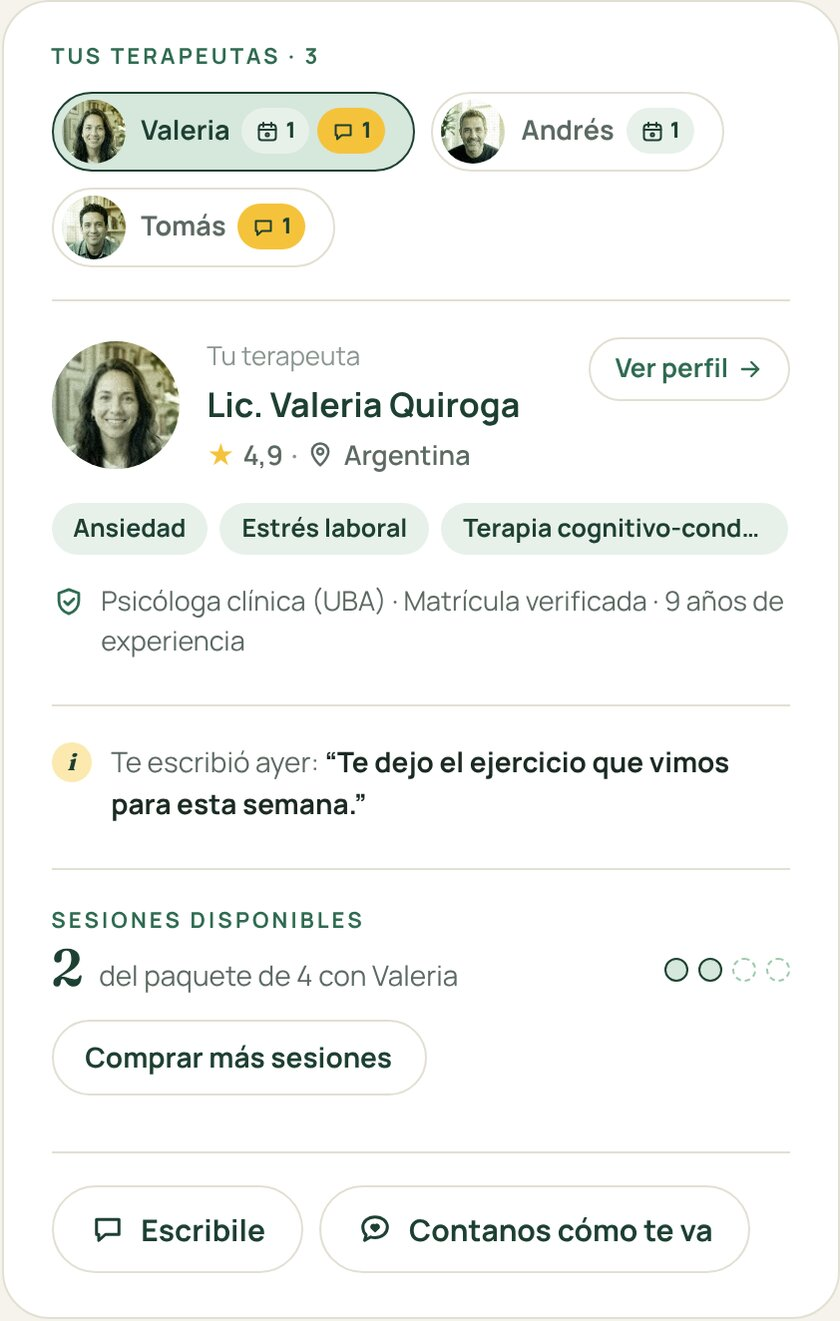
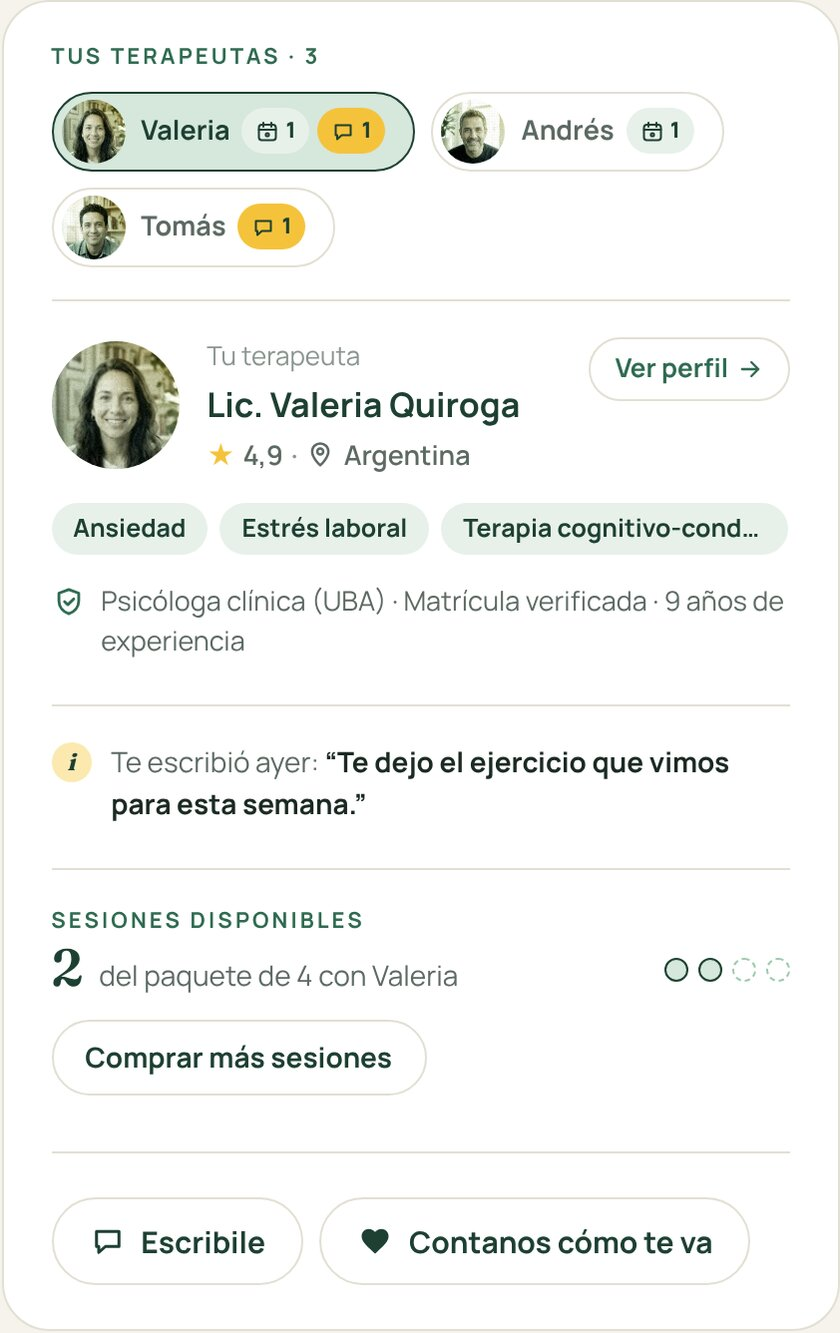
Ronda #2: corazón como ícono de «Contanos cómo te va» y más aire sobre los botones
Claude-Session: https://claude.ai/code/session_01WU1DRuLLvKJwMVuiPWLics

diff --git a/web/public/app-usuario/ronda-2.html b/web/public/app-usuario/ronda-2.html
@@ -833,7 +833,7 @@ ul.lista-simple { padding: 0; }
 .ver-abajo { align-self: flex-start; padding: 0 !important; height: 32px; }
 
 /* Ficha del profesional: línea arriba de los botones y "Ver perfil" arriba a la derecha */
-.pro2 .botones { padding-top: 16px; border-top: 1px solid var(--linea); }
+.pro2 .botones { padding-top: 22px; border-top: 1px solid var(--linea); }
 .pro2-cab { padding-right: 96px; }
 .tel-pro .pro2-cab { padding-right: 88px; }
 .multi .pro2-cab { padding-right: 96px; }
@@ -853,7 +853,7 @@ ul.lista-simple { padding: 0; }
   <symbol id="i-flecha" viewBox="0 0 24 24"><path d="M5 12h14M13 6l6 6-6 6"/></symbol>
   <symbol id="i-video" viewBox="0 0 24 24"><rect x="3" y="6.5" width="12.5" height="11" rx="2.5"/><path d="m15.5 10.5 5-3v9l-5-3"/></symbol>
   <symbol id="i-chat" viewBox="0 0 24 24"><path d="M4.5 5.5h15v10h-9l-4.5 4v-4H4.5z"/></symbol>
-  <symbol id="i-feedback" viewBox="0 0 24 24"><path d="M12 3.8c4.7 0 8.2 3 8.2 6.9s-3.5 6.9-8.2 6.9c-1 0-2-.1-2.9-.4L5 19.4l1-3.5C4.7 14.6 3.8 12.8 3.8 10.7 3.8 6.8 7.3 3.8 12 3.8z"/><path d="M12 13.4l-2.3-2.2a1.4 1.4 0 0 1 2.3-1.6 1.4 1.4 0 0 1 2.3 1.6z" fill="currentColor" stroke-width="1.4"/></symbol>
+  <symbol id="i-feedback" viewBox="0 0 24 24"><path d="M12 20.3l-1.3-1.2C6 14.9 3 12.1 3 8.7 3 6 5.1 3.9 7.8 3.9c1.5 0 3 .7 4.2 1.9 1.2-1.2 2.7-1.9 4.2-1.9C18.9 3.9 21 6 21 8.7c0 3.4-3 6.2-7.7 10.4z" fill="currentColor" stroke="none"/></symbol>
   <symbol id="i-pin" viewBox="0 0 24 24"><path d="M12 21s-6.5-5.6-6.5-11a6.5 6.5 0 0 1 13 0c0 5.4-6.5 11-6.5 11z"/><circle cx="12" cy="10" r="2.4"/></symbol>
   <symbol id="i-candado" viewBox="0 0 24 24"><rect x="5" y="10.5" width="14" height="10" rx="2.5"/><path d="M8 10.5V8a4 4 0 0 1 8 0v2.5"/></symbol>
   <symbol id="i-corazon" viewBox="0 0 24 24"><path d="M12 20s-7.5-4.6-7.5-10.2A4.3 4.3 0 0 1 12 7.2a4.3 4.3 0 0 1 7.5 2.6C19.5 15.4 12 20 12 20z"/></symbol>

diff --git a/06-app-usuario/historial/ronda-2.md b/06-app-usuario/historial/ronda-2.md
@@ -160,7 +160,7 @@ Toma como base el Inicio B3 de la [Ronda #1](/06-app-usuario/historial/ronda-1/)
 - **Una línea con sus credenciales:** "Psicóloga clínica (UBA) · Matrícula verificada · 9 años de experiencia", con el ícono del escudo.
 - **El último mensaje sin leer**, en una nota sutil (círculo amarillo suave con la "i" y el texto: "Te escribió ayer: …"). **Solo aparece si hay un mensaje sin leer**; si no, la tarjeta pasa directo a las sesiones.
 - **Las sesiones disponibles con ese profesional:** "2 del paquete de 4 con Valeria", con cuatro puntos (sólidos las usadas o reservadas, punteados las disponibles). La próxima sesión ya está en la tarjeta verde y la última, en la agenda de la semana o en Sesiones.
-- **Acciones:** abajo, separados por una línea, "Escribile" (abre el chat) y "Contanos cómo te va" (de contorno, con un globo de diálogo con un corazón); "Ver perfil" arriba a la derecha. "Comprar más sesiones" está en el apartado de sesiones disponibles (ver los ajustes del 13/11). 
+- **Acciones:** abajo, separados por una línea, "Escribile" (abre el chat) y "Contanos cómo te va" (de contorno, con un corazón verde bosque); "Ver perfil" arriba a la derecha. "Comprar más sesiones" está en el apartado de sesiones disponibles (ver los ajustes del 13/11). 
 
 Otros cambios respecto del B3:
 
@@ -296,7 +296,7 @@ Una de las decisiones de esta ronda es trabajar con **pocos componentes, robusto
 | [![Navegación principal](/img/app-usuario/ronda-2/componentes/navegacion.jpg)](/img/app-usuario/ronda-2/componentes/navegacion.jpg) | **Navegación principal** | Llevar a los cinco destinos: Inicio, Mensajes, Sesiones, Diario y Bienestar, con el contador de mensajes sin leer. | Todas las pantallas, salvo la contratación (mockup 7). | Barra lateral (escritorio) y barra inferior (teléfono). |
 | [![Cabecera guía](/img/app-usuario/ronda-2/componentes/cabecera-guia.jpg)](/img/app-usuario/ronda-2/componentes/cabecera-guia.jpg) | **Cabecera guía** | Encabezar el Inicio con una tarjeta verde salvia que dice lo que la persona tiene que hacer ahora, con un único botón amarillo. Responde siempre "¿qué tengo que hacer ahora?". | Inicio con profesional (mockups 1, 2 y 4). | Sesión por empezar ("Entrar a la sesión", "Reprogramar"); sin turnos (próximos horarios libres y "Reservar sesión"). |
 | [![Primeros pasos](/img/app-usuario/ronda-2/componentes/primeros-pasos.jpg)](/img/app-usuario/ronda-2/componentes/primeros-pasos.jpg) | **Primeros pasos** | Guiar al usuario nuevo hacia su primera sesión: una tarjeta verde bosque con los cuatro pasos (el actual en amarillo, los pendientes punteados), "Ver terapeutas" y la aclaración de precios. | Inicio sin profesional (mockup 3). | — |
-| [![Ficha del profesional](/img/app-usuario/ronda-2/componentes/ficha-profesional.jpg)](/img/app-usuario/ronda-2/componentes/ficha-profesional.jpg) | **Ficha del profesional** | Decir siempre con quién se hace, se paga o se reserva: foto, nombre, calificación y país, especialidades, credenciales y acciones. En esta fase todos son terapeutas (en pantalla dice "Tu terapeuta"). | Inicio (mockups 1, 2 y 4), Buscador de profesionales (mockups 5 y 6), contratación (mockup 7) y reserva (mockup 8). | Completa (con el mensaje sin leer y las sesiones disponibles, con "Comprar más sesiones" cuando ya se usó la mitad del paquete, en verde bosque si queda 1 o ninguna; abajo, separados por una línea, "Escribile" y "Contanos cómo te va", de contorno con un globo de diálogo con un corazón; "Ver perfil" arriba a la derecha); con **selector de profesionales** (pastillas con avisos de sesiones y mensajes, el principal primero); resumida (dentro del Resumen de contratación); compacta (teléfono); **resultado de búsqueda** (en el Buscador de profesionales, con las especialidades que coinciden, el precio del encuentro inicial, "Ver perfil y horarios" y "Ver paquetes"). |
+| [![Ficha del profesional](/img/app-usuario/ronda-2/componentes/ficha-profesional.jpg)](/img/app-usuario/ronda-2/componentes/ficha-profesional.jpg) | **Ficha del profesional** | Decir siempre con quién se hace, se paga o se reserva: foto, nombre, calificación y país, especialidades, credenciales y acciones. En esta fase todos son terapeutas (en pantalla dice "Tu terapeuta"). | Inicio (mockups 1, 2 y 4), Buscador de profesionales (mockups 5 y 6), contratación (mockup 7) y reserva (mockup 8). | Completa (con el mensaje sin leer y las sesiones disponibles, con "Comprar más sesiones" cuando ya se usó la mitad del paquete, en verde bosque si queda 1 o ninguna; abajo, separados por una línea, "Escribile" y "Contanos cómo te va", de contorno con un corazón verde bosque; "Ver perfil" arriba a la derecha); con **selector de profesionales** (pastillas con avisos de sesiones y mensajes, el principal primero); resumida (dentro del Resumen de contratación); compacta (teléfono); **resultado de búsqueda** (en el Buscador de profesionales, con las especialidades que coinciden, el precio del encuentro inicial, "Ver perfil y horarios" y "Ver paquetes"). |
 | [![Buscador de profesionales](/img/app-usuario/ronda-2/componentes/buscador-profesionales.jpg)](/img/app-usuario/ronda-2/componentes/buscador-profesionales.jpg) | **Buscador de profesionales** | Encontrar y elegir un profesional: la lista de fichas (resultados de búsqueda), el orden por compatibilidad (con prioridad a una especialidad) o por precio, el filtro "Mostrar" por categoría de profesional y el panel "Lo que nos contaste", con "Cambiar mis respuestas". | Elección de profesional (mockups 5 y 6), desde "Ver terapeutas" (mockup 3) o desde el Cross-selling de profesionales, con los filtros cargados. | Por defecto ("Compatibilidad", según todas tus respuestas) o con una especialidad elegida (el control dice su nombre); escritorio (panel a la derecha) y teléfono (respuestas como pills). |
 | [![Selector de paquetes](/img/app-usuario/ronda-2/componentes/selector-paquetes.jpg)](/img/app-usuario/ronda-2/componentes/selector-paquetes.jpg) | **Selector de paquetes** | Elegir qué contratar con un profesional: el encuentro inicial o un paquete, con su precio, su ahorro y el precio por sesión, y la opción de usar un código de descuento. | Contratación (mockup 7), desde "Ver paquetes" o "Comprar más sesiones". | Primera vez con ese profesional (el encuentro inicial recomendado y elegido por defecto) o ya con sesiones previas (los paquetes primero). |
 | [![Resumen de contratación](/img/app-usuario/ronda-2/componentes/resumen-contratacion.jpg)](/img/app-usuario/ronda-2/componentes/resumen-contratacion.jpg) | **Resumen de contratación** | Responder, junto a la acción, con quién, qué y cuánto: contiene la Ficha del profesional (variante resumida), las aclaraciones del servicio (videollamada de 50 minutos y reprogramación sin costo hasta 24 h antes), el desglose y el total, y el botón amarillo con su aclaración. | Contratación (mockup 7) y reserva (mockup 8). | **Contratación** (desglose, total y "Continuar al pago", con "Es el monto exacto que vas a ver en el pago"); **reserva** ("Tu sesión" con el día y la hora elegidos, y "Reservar sesión", "Reservar y proceder al pago" o "Reprogramar sesión"); columna derecha (escritorio) o barra fija (teléfono). |
@@ -362,4 +362,4 @@ En el **Cross-selling de profesionales**, las especialidades sugeridas (no la mo
 - **"Comprar más sesiones"** pasa al apartado de **sesiones disponibles**, debajo del número. **No aparece hasta que la persona usó al menos la mitad de las sesiones de su paquete.** Si le queda 1 sesión o ninguna, el botón pasa de blanco a **verde bosque**, para darle más relevancia. En los mockups 1 y 4 quedan 2 de 4 (botón blanco); el mockup 2 pasa a tener 1 de 4 (botón verde bosque), y su saludo y su botón amarillo lo dicen ("Te queda 1 sesión disponible con Valeria", "Usás tu última sesión disponible con Valeria").
 - **"Ver perfil"** queda arriba a la derecha de la ficha: con tres botones abajo no entraba en la misma fila (también en la reserva, mockup 8).
 - **Línea divisoria arriba de los botones**, como entre los demás apartados de la ficha.
-- **Nuevo botón: "Contanos cómo te va"**, blanco con contorno, como "Escribile", con un ícono de un solo color (verde bosque): un **globo de diálogo redondo con un corazón**, que habla de contar y de dar feedback y se distingue del globo cuadrado del chat. Se probó el botón en amarillo, pero competía con el CTA; después, una estrella amarilla con borde verde, que en ese tamaño no funcionaba. También aparece a partir de la mitad del paquete (o cuando no quedan sesiones), y abre un componente para dar feedback sobre el proceso con el profesional y calificarlo. Ese componente está por diseñar.
+- **Nuevo botón: "Contanos cómo te va"**, blanco con contorno, como "Escribile", con un **corazón relleno en verde bosque**, de un solo color, que se distingue bien del globo del chat. Se probó el botón en amarillo, pero competía con el CTA; después, una estrella amarilla con borde verde, que en ese tamaño no funcionaba, y un globo de diálogo con un corazón adentro, que se parecía demasiado al de "Escribile". La línea divisoria que separa los botones tiene más aire debajo (22 px). También aparece a partir de la mitad del paquete (o cuando no quedan sesiones), y abre un componente para dar feedback sobre el proceso con el profesional y calificarlo. Ese componente está por diseñar.
